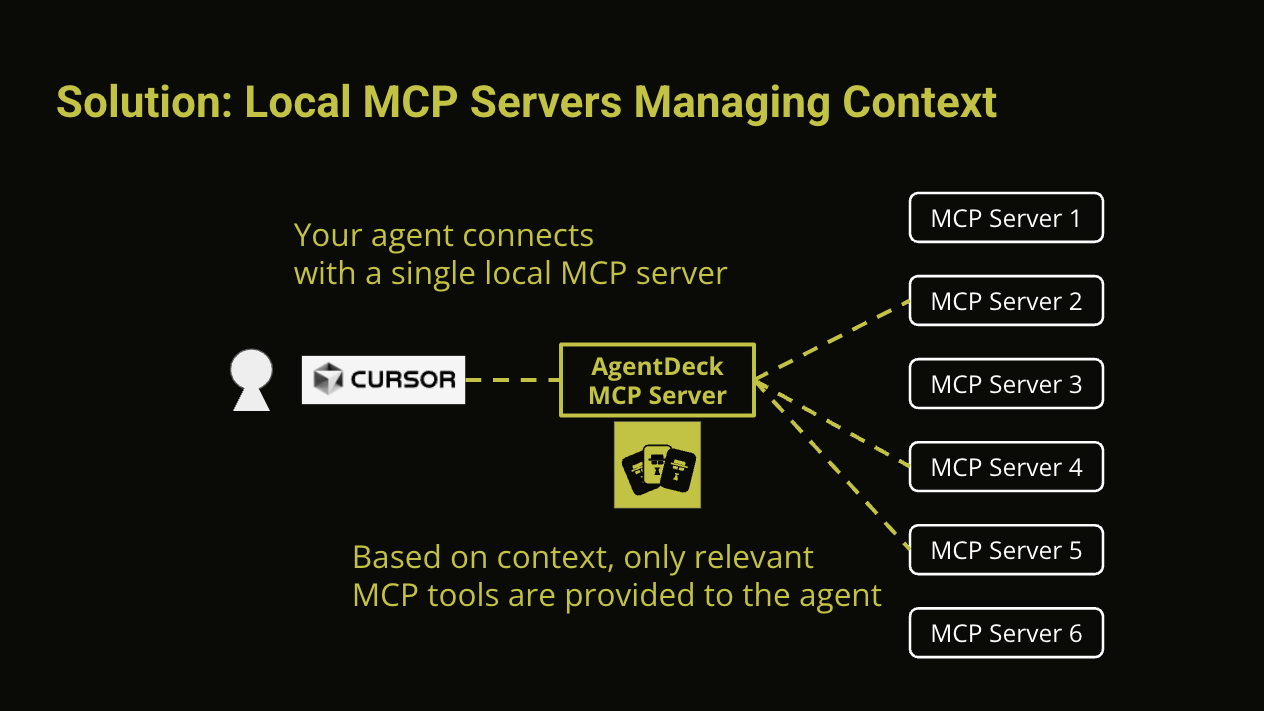
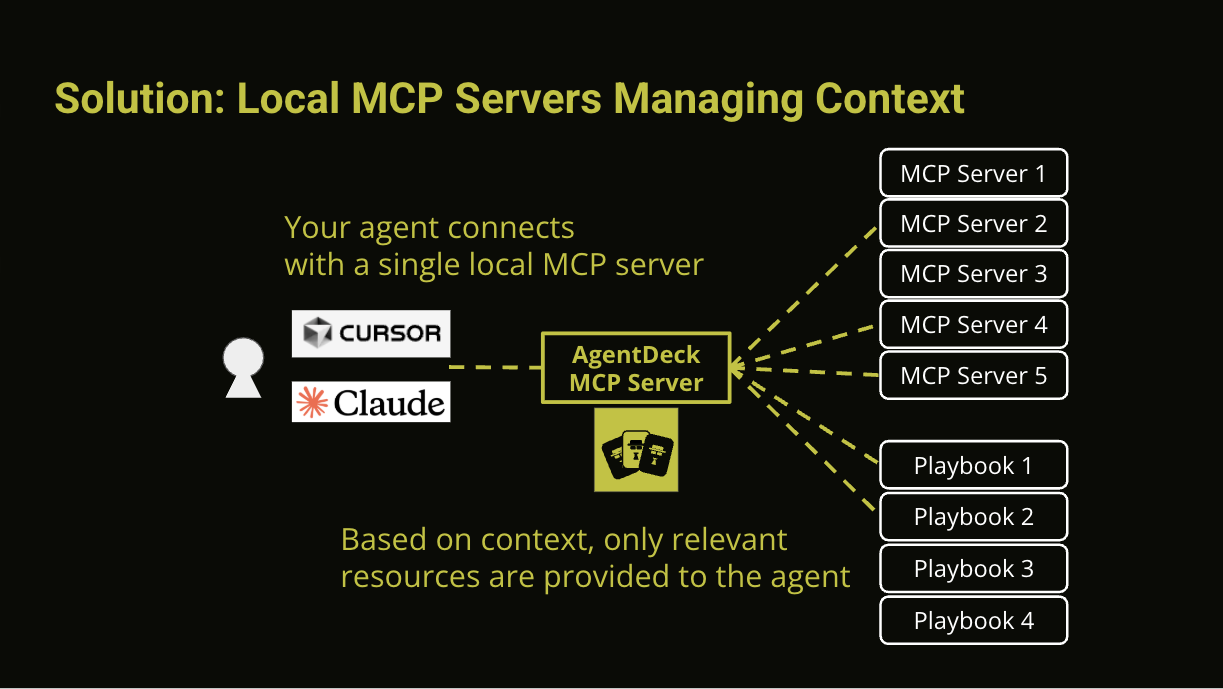
Refresh dashboard collection after OAuth and widen playbook modal.
Notify opener on OAuth callback, centralize service query invalidation, and update misc screenshots.

diff --git a/apps/agent-deck/src/lib/invalidate-dashboard-queries.test.ts b/apps/agent-deck/src/lib/invalidate-dashboard-queries.test.ts
@@ -1,0 +1,44 @@
+import { describe, expect, it, vi } from "vitest";
+import { QueryClient } from "@tanstack/react-query";
+import {
+  invalidateDashboardServiceQueries,
+  isOAuthCompleteMessage,
+  OAUTH_COMPLETE_MESSAGE,
+} from "./invalidate-dashboard-queries";
+
+describe("invalidateDashboardServiceQueries", () => {
+  it("invalidates services list and collection warnings", () => {
+    const queryClient = new QueryClient();
+    const invalidate = vi.spyOn(queryClient, "invalidateQueries");
+
+    invalidateDashboardServiceQueries(queryClient);
+
+    expect(invalidate).toHaveBeenCalledWith({ queryKey: ["/api/services"] });
+    expect(invalidate).toHaveBeenCalledWith({ queryKey: ["/api/collection/warnings"] });
+    expect(invalidate).toHaveBeenCalledTimes(2);
+  });
+
+  it("also invalidates a specific service when serviceId is provided", () => {
+    const queryClient = new QueryClient();
+    const invalidate = vi.spyOn(queryClient, "invalidateQueries");
+
+    invalidateDashboardServiceQueries(queryClient, "svc-1");
+
+    expect(invalidate).toHaveBeenCalledWith({ queryKey: ["/api/services", "svc-1"] });
+    expect(invalidate).toHaveBeenCalledWith({ queryKey: ["/api/services", "svc-1", "tools"] });
+    expect(invalidate).toHaveBeenCalledTimes(4);
+  });
+});
+
+describe("isOAuthCompleteMessage", () => {
+  it("accepts oauth complete messages", () => {
+    expect(
+      isOAuthCompleteMessage({ type: OAUTH_COMPLETE_MESSAGE, serviceId: "abc" }),
+    ).toBe(true);
+  });
+
+  it("rejects other message shapes", () => {
+    expect(isOAuthCompleteMessage({ type: "other" })).toBe(false);
+    expect(isOAuthCompleteMessage(null)).toBe(false);
+  });
+});

diff --git a/apps/agent-deck/src/lib/invalidate-dashboard-queries.ts b/apps/agent-deck/src/lib/invalidate-dashboard-queries.ts
@@ -1,0 +1,30 @@
+import type { QueryClient } from "@tanstack/react-query";
+
+/** Refresh dashboard cards after a service changes (OAuth, health, etc.). */
+export function invalidateDashboardServiceQueries(
+  queryClient: QueryClient,
+  serviceId?: string,
+) {
+  queryClient.invalidateQueries({ queryKey: ["/api/services"] });
+  queryClient.invalidateQueries({ queryKey: ["/api/collection/warnings"] });
+
+  if (serviceId) {
+    queryClient.invalidateQueries({ queryKey: ["/api/services", serviceId] });
+    queryClient.invalidateQueries({ queryKey: ["/api/services", serviceId, "tools"] });
+  }
+}
+
+export const OAUTH_COMPLETE_MESSAGE = "agent-deck:oauth-complete" as const;
+
+export interface OAuthCompleteMessage {
+  type: typeof OAUTH_COMPLETE_MESSAGE;
+  serviceId?: string;
+}
+
+export function isOAuthCompleteMessage(data: unknown): data is OAuthCompleteMessage {
+  return (
+    typeof data === "object" &&
+    data !== null &&
+    (data as OAuthCompleteMessage).type === OAUTH_COMPLETE_MESSAGE
+  );
+}

diff --git a/apps/agent-deck/src/components/service-details-modal.tsx b/apps/agent-deck/src/components/service-details-modal.tsx
@@ -9,6 +9,7 @@ import { useQueryClient, useQuery } from "@tanstack/react-query";
 import { useToast } from "@/hooks/use-toast";
 import McpToolsPanel from "@/components/mcp-tools-panel";
 import { OAuthConnectPanel } from "@/components/oauth-connect-panel";
+import { invalidateDashboardServiceQueries } from "@/lib/invalidate-dashboard-queries";
 
 
 // API response type that matches the backend
@@ -346,6 +347,8 @@ export default function ServiceDetailsModal({
   useEffect(() => {
     if (!isOpen) {
       setCurrentService(null);
+      oauthResolvedThisSession.current = false;
+      oauthCompletionHandled.current = false;
       return;
     }
     if (service) {
@@ -356,6 +359,7 @@ export default function ServiceDetailsModal({
   }, [service, isOpen]);
 
   const oauthCompletionHandled = useRef(false);
+  const oauthResolvedThisSession = useRef(false);
 
   // Refresh service data after OAuth completes (status query polls until authenticated)
   useEffect(() => {
@@ -373,6 +377,7 @@ export default function ServiceDetailsModal({
       return;
     }
     oauthCompletionHandled.current = true;
+    oauthResolvedThisSession.current = true;
 
     const refreshAfterOAuth = async () => {
       toast({
@@ -380,9 +385,8 @@ export default function ServiceDetailsModal({
         description: 'Authentication successful! Refreshing service status...',
       });
 
-      queryClient.invalidateQueries({ queryKey: ['/api/services', apiService.id] });
+      invalidateDashboardServiceQueries(queryClient, apiService.id);
       queryClient.invalidateQueries({ queryKey: ['/api/mcp/discover', apiService.url] });
-      queryClient.invalidateQueries({ queryKey: ['/api/collection-warnings'] });
 
       try {
         const serviceResponse = await apiRequest('GET', `/api/services/${apiService.id}`);
@@ -397,6 +401,7 @@ export default function ServiceDetailsModal({
       await refetchMcpDiscovery();
       queryClient.invalidateQueries({ queryKey: ['/api/services', apiService.id, 'tools'] });
       await refetchMcpTools();
+      oauthResolvedThisSession.current = false;
     };
 
     void refreshAfterOAuth();
@@ -502,8 +507,21 @@ export default function ServiceDetailsModal({
     }
   };
 
+  const handleDialogOpenChange = (open: boolean) => {
+    if (open) {
+      return;
+    }
+
+    if (oauthResolvedThisSession.current) {
+      invalidateDashboardServiceQueries(queryClient, apiService?.id ?? service?.id);
+      oauthResolvedThisSession.current = false;
+    }
+    oauthCompletionHandled.current = false;
+    onClose();
+  };
+
   return (
-    <Dialog open={isOpen} onOpenChange={onClose}>
+    <Dialog open={isOpen} onOpenChange={handleDialogOpenChange}>
       <DialogContent className="sm:max-w-6xl bg-gradient-to-br from-cosmic-900 to-cosmic-800 border border-white/20 text-white max-h-[90vh] overflow-y-auto">
         <DialogHeader>
           <DialogTitle className="text-2xl font-bold flex items-center">

diff --git a/apps/agent-deck/src/hooks/use-websocket.ts b/apps/agent-deck/src/hooks/use-websocket.ts
@@ -1,5 +1,9 @@
 import { useEffect, useState, useRef } from "react";
 import { useQueryClient } from "@tanstack/react-query";
+import {
+  invalidateDashboardServiceQueries,
+  isOAuthCompleteMessage,
+} from "@/lib/invalidate-dashboard-queries";
 
 interface WebSocketMessage {
   type: string;
@@ -35,12 +39,13 @@ export function useWebSocket() {
             // Handle specific message types and invalidate queries
             if (message.type === 'deck_update') {
               console.log('Received deck update:', message);
-              // Invalidate deck queries to refresh the UI
-              queryClient.invalidateQueries({ queryKey: ['/api/decks'] });
               queryClient.invalidateQueries({ queryKey: ['/api/decks'] });
             } else if (message.type === 'service_update') {
               console.log('Received service update:', message);
-              queryClient.invalidateQueries({ queryKey: ['/api/services'] });
+              invalidateDashboardServiceQueries(
+                queryClient,
+                typeof message.data?.serviceId === 'string' ? message.data.serviceId : undefined,
+              );
             } else if (message.type === 'connection_status') {
               setConnectionStatus(message.status === 'connected' ? 'connected' : 'disconnected');
             }
@@ -73,7 +78,20 @@ export function useWebSocket() {
 
     connect();
 
+    const handleOAuthComplete = (event: MessageEvent) => {
+      if (event.origin !== window.location.origin) {
+        return;
+      }
+      if (!isOAuthCompleteMessage(event.data)) {
+        return;
+      }
+      invalidateDashboardServiceQueries(queryClient, event.data.serviceId);
+    };
+
+    window.addEventListener('message', handleOAuthComplete);
+
     return () => {
+      window.removeEventListener('message', handleOAuthComplete);
       if (reconnectTimeoutRef.current) {
         clearTimeout(reconnectTimeoutRef.current);
       }

diff --git a/apps/agent-deck/src/components/oauth-callback.tsx b/apps/agent-deck/src/components/oauth-callback.tsx
@@ -1,5 +1,6 @@
 import { useEffect, useState } from 'react';
 import { useLocation } from 'wouter';
+import { OAUTH_COMPLETE_MESSAGE } from '@/lib/invalidate-dashboard-queries';
 
 export default function OAuthCallback() {
   const [location] = useLocation();
@@ -13,10 +14,18 @@ export default function OAuthCallback() {
         const url = new URL(window.location.href);
         const success = url.searchParams.get('success');
         const error = url.searchParams.get('error');
+        const serviceId = url.searchParams.get('serviceId');
 
         if (success === 'true') {
           setStatus('success');
           setMessage('Authentication successful! This window will close automatically.');
+
+          if (window.opener && !window.opener.closed) {
+            window.opener.postMessage(
+              { type: OAUTH_COMPLETE_MESSAGE, serviceId: serviceId ?? undefined },
+              window.location.origin,
+            );
+          }
           
           // Close the window after a short delay
           setTimeout(() => {

diff --git a/apps/agent-deck/src/components/playbook-details-modal.tsx b/apps/agent-deck/src/components/playbook-details-modal.tsx
@@ -32,7 +32,7 @@ export default function PlaybookDetailsModal({
 
   return (
     <Dialog open={open} onOpenChange={onOpenChange}>
-      <DialogContent className="sm:max-w-2xl max-h-[90vh] overflow-y-auto border-border bg-[#161612] text-[#E8F6F4]">
+      <DialogContent className="sm:max-w-6xl max-h-[90vh] overflow-y-auto border-border bg-[#161612] text-[#E8F6F4]">
         <DialogHeader>
           <DialogTitle>{playbook?.title ?? "Playbook"}</DialogTitle>
           <DialogDescription className="text-[#A8C4C0]">